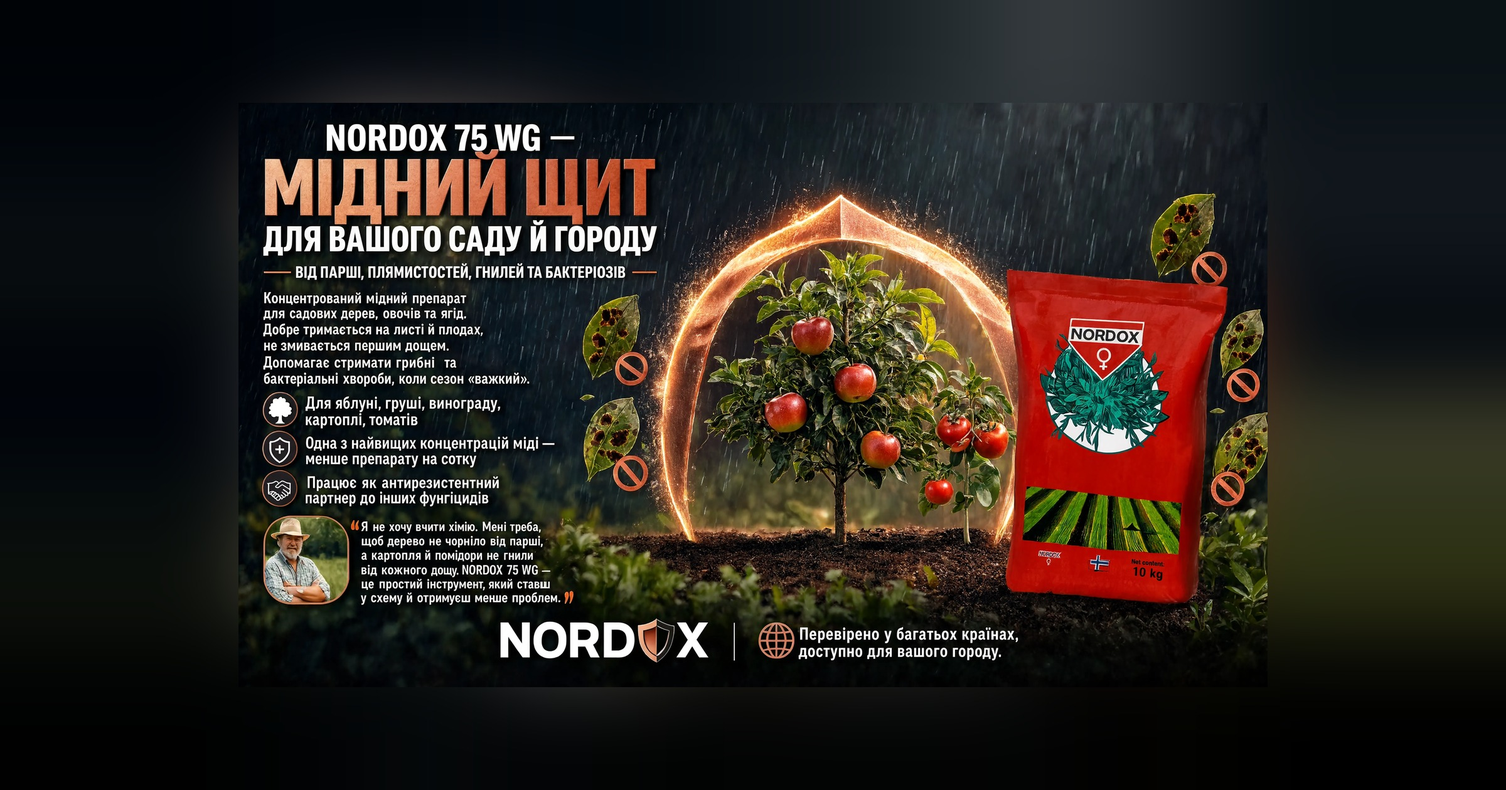
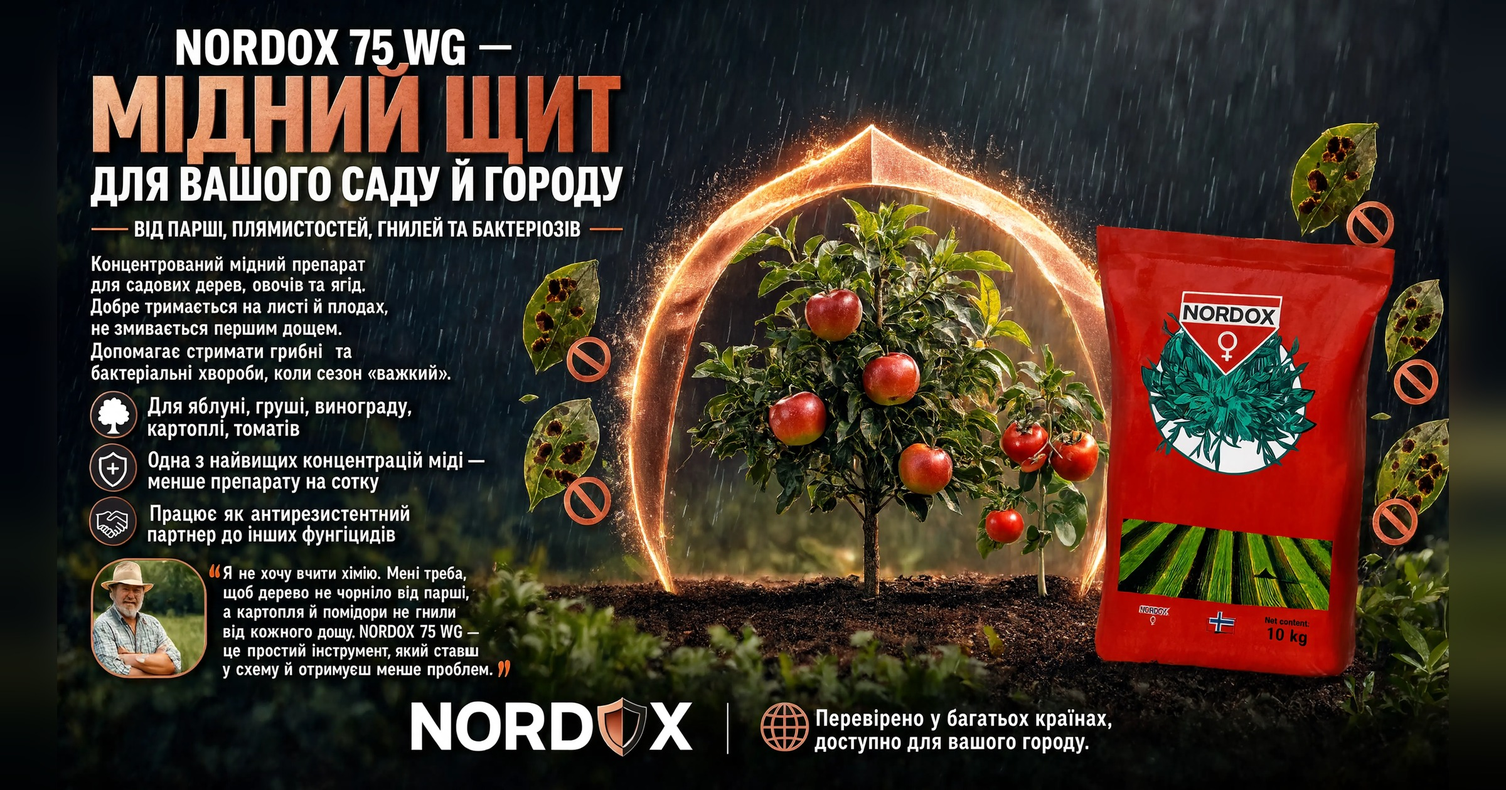
Обкладинка «Остання обробка саду»: банер на весь кадр

diff --git a/CLAUDE.md b/CLAUDE.md
@@ -936,8 +936,12 @@ Slug `ostannia-obrobka-sadu-pered-zymoiu`, «Стаття», 6 хв, теги no
 kistochkovi-kultury. SEO title 47, description 136. 6 FAQ, 2 callout, 2 таблиці + rates.
 Щоб не дублювати «Сад восени» (id=12): кут — листкові рубці, санітарія ДО обприскування,
 норма на сотку (10–15 г), облік міді (1,5 кг/га ≈ 1,1 кг Cu ≈ ¼ ліміту); внутрішнє посилання на id=12.
-Обкладинка 2400×1260: банер цілим у центральних 1640×932 (видно в кожному кадрі 1.30–1.90), поля з 4 боків =
-edge-pad краю банера + blur 70. 🔴 Банер у тілі був дублем обкладинки — Бро забракував, прибрано (CMS 41→40 блоків, файл із public/ видалено).
+Обкладинка 2400×1260: банер на всю висоту (2218 px), поля по 91 px (edge-pad + blur 40), CMS media **id=44**.
+🔴 Перша версія (банер у центральних 1640×932 з полями з 4 боків) — Бро забракував: дрібно, рамка.
+🔵 ЗАМІРЯНО 24.09: сторінка статті показує кадр 1.905 ЦІЛИМ на будь-якій ширині (1440/768/390/360) —
+обрізає ЛИШЕ картка сітки блогу (висота 260px: 1.51 десктоп, 1.33 планшет, 1.27 на 390, 1.15 на 360).
+Правило «центральні 1640» — тільки для картки; банер клієнта з текстом по краях заповнює кадр, у картці
+краї ріжуться. Варіант без обрізання — картці aspect-ratio 1.905 замість h-260 (запропоновано Бро, не зроблено). 🔴 Банер у тілі був дублем обкладинки — Бро забракував, прибрано (CMS 41→40 блоків, файл із public/ видалено).
 Правило: одне зображення — одне місце [[feedback_no_duplicate_image_cover_body]].
 ⚠ Факт про листкові рубці як ворота інфекції — загальна агрономія, не з каталогу.
 ✅ Апрув Бро 24.09. Локальний коміт `36d9087` (posts.ts + 2 jpg), білд зелений. ✅ Запушено й задеплоєно
